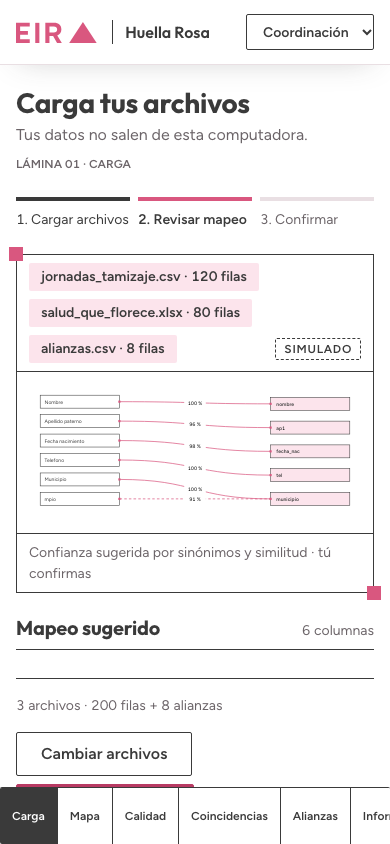
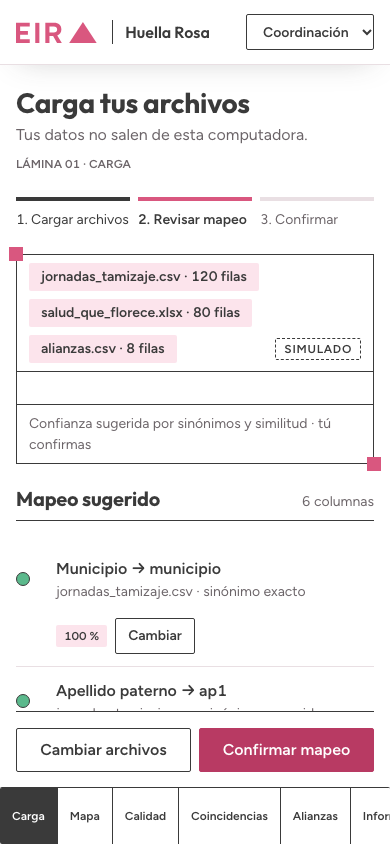
fix(HR-002): 390 flow screen: sticky action above the tab bar, mapping diagram gives way to rows
Generated with [Devin](https://devin.ai)

diff --git a/web/src/index.css b/web/src/index.css
@@ -666,3 +666,34 @@ select {
     overflow-wrap: anywhere;
   }
 }
+
+/* 390: the tab bar is fixed at the bottom, so sticky actions sit above it; a wide diagram gives way to its rows. */
+@media (max-width: 860px) {
+  .ui-main {
+    padding-bottom: 56px;
+  }
+  .ui-sticky-action {
+    bottom: 56px;
+  }
+  .ui-plate > svg {
+    display: none;
+  }
+}
+
+@media (max-width: 860px) {
+  .ui-plate svg {
+    display: none !important;
+  }
+  .ui-sticky-action > .ui-note {
+    display: none;
+  }
+  .ui-sticky-action > div {
+    flex: 1;
+    flex-wrap: nowrap !important;
+  }
+  .ui-sticky-action .ui-btn {
+    flex: 1;
+    padding: 0 var(--s-2);
+    white-space: nowrap;
+  }
+}

diff --git a/web/DESIGN.md b/web/DESIGN.md
@@ -6,7 +6,7 @@
 
 ## Direction
 - Name: `Lámina` · Intent: `EIRA's impact shown as a labeled specimen sheet: white paper, ink frames, one pink that carries the data`
-- The one memorable element: `the 3D map of Mexico whose states rise in EIRA pink, set in an ink frame with two pink registration squares; everything else is calm paper and hairlines`
+- The one memorable element: `the 3D map of Mexico whose states rise in EIRA pink, full-bleed; plates (Carga, Informe, landing) carry the ink frame with two pink registration squares; everything else is calm paper and hairlines`
 - References: `web/public/design-lock/refs/r1-v1-1280.png` (the picked landing variant); no product links were given
 
 ## Type
